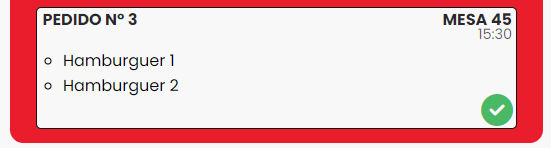
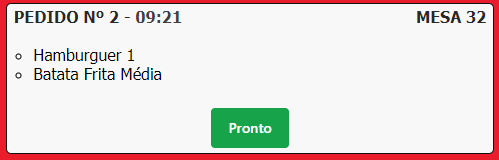
Atualização 21/02/2023
Mudanças na apresentação do projeto em django Comanda-Online

diff --git a/django-comanda-online.html b/django-comanda-online.html
@@ -18,45 +18,63 @@
 
     <!--BLOCO CORPO-->
     <img class="logo-projeto" src="images/django-comanda-online-logo.png" alt="comanda-online logo">
-    <h3 class="titulo_projeto">Comanda Online</h3>
+    <h3 class="titulo_projeto">Comanda Online v1.1</h3>
     <hr>
     <h4>DESCRIÇÃO</h4>
-    <p class="descricao">Este é meu primeiro projeto em Django e a meu objetivo com esse projeto foi realizado um CRUD completo e poder ver funcionar de forma dinâmica a integração do front-end com o banco de dados.</p>
+    <p class="descricao">Este é meu primeiro projeto em Django e meu objetivo com esse projeto foi realizar um CRUD completo e poder vê-lo funcionando dinamicamente integrando o front-end com o banco de dados.</p>
 
     <details>
-        <summary>Imagem da Página do Projeto</summary>
+        <summary>Imagem da Página Inicial do Projeto</summary>
         <img src="images/django/comanda-online/004.png" alt="exemplo 4">
     </details>
 
-    <p class="descricao">O projeto consiste em uma comanda online, como o próprio nome sugere, onde os garçons poderiam, utilizando um tablet, registrar os pedidos dos clientes e, uma vez criada a comanda, ela poderia ser visualizada pela equipe da cozinha do restaurante. A equipe receberia a comanda contendo os pedidos, a quantidade e o horário em que os pedidos foram registrados. Os pedidos estão organizados por ordem cronológica, do mais antigo pro mais novo, para que possa haver uma hierarquia de prioridade baseada no tempo. Uma vez que o pedido estivesse pronto para ser entregue, a cozinha liberava e poderia através da aplicação confirmar que o pedido está pronto, apertando no botão verde no canto inferior direito do pedido.
-    </p>
-
-    <img src="images/django/comanda-online/001.png" alt="exemplo 1">
-
-    <p class="descricao">Para que os pedidos fossem apresentados no front-end foi utilizado um for loop na página HTML que resgata os registros no banco de dados e apresenta-os, independente de quantos haverem. Segue abaixo uma imagem demonstrando como ficou o código.</p>
+    <p class="descricao">O projeto consiste em uma comanda online, como o próprio nome sugere, onde os garçons poderiam, utilizando um tablet, registrar os pedidos dos clientes e, uma vez criada a comanda, ela poderia ser visualizada pela equipe da cozinha do restaurante. A equipe receberia a comanda contendo os pedidos, a quantidade e o horário em que os pedidos foram registrados. Os pedidos estão organizados por ordem cronológica, do mais antigo para o mais novo, para que possa haver uma hierarquia de prioridade baseada no tempo. Uma vez que o pedido estivesse pronto para ser entregue, a cozinha liberava e poderia através da aplicação confirmar que o pedido está pronto, apertando no botão verde na parte inferior do pedido.</p>
 
     <details>
-        <summary>Clique Aqui</summary>
+        <summary>Imagem do Pedido</summary>
+        <img src="images/django/comanda-online/001.png" alt="exemplo 1">
+    </details>
+    
+
+    <p class="descricao">Para que os pedidos fossem apresentados no front-end foi utilizado um for loop na página HTML que resgata os registros no banco de dados e apresenta-os, independente de quantos houverem. Segue abaixo uma imagem demonstrando como ficou o código.</p>
+
+    <details>
+        <summary>Imagem do HTML</summary>
         <img src="images/django/comanda-online/002.png" width="100%" alt="exemplo 2">
     </details>
 
-    <p class="descricao">Por fim a tabela no banco de dados (Models do Django) foi criado pensando que ao menos um produto deve ser inserido (caso contrário, não faria sentido criar um registro novo) e também sendo obrigatório o registro do número da mesa onde o pedido foi solicitado, para que ele possa ser endereçado corretamente quando o pedido estiver pronto. Segue abaixo uma imagem demonstrando como ficou o Models.</p>
+    <p class="descricao">Foi criada uma página adicional que é acessada clicando em "Novo Pedido" que leva o usuário ao formulário de adição do novo pedido. A tabela no banco de dados (Models do Django) foi criado pensando que ao menos um produto deve ser inserido (caso contrário, não faria sentido criar um registro novo) e também sendo obrigatório o registro do número da mesa onde o pedido foi solicitado, para que ele possa ser endereçado corretamente quando o pedido estiver pronto. Segue abaixo uma imagem demonstrando como ficou o Models e logo abaixo outra imagem demonstrando o front-end visualizado pelo usuário.</p>
 
     <details>
-        <summary>Clique Aqui</summary>
+        <summary>Models no Django</summary>
         <img src="images/django/comanda-online/003.png" width="100%" alt="exemplo 3">
+    </details>
+    <br>
+    <details>
+        <summary>Formulário de Novo Pedido</summary>
+        <img src="images/django/comanda-online/005.png" width="100%" alt="exemplo 5">
     </details>
     <br>
     <details>
         <summary>Detalhes Técnicos</summary>
         <p>Python 3.10 <br> Django 4.1.6 <br>Visual Studio Code 1.75.0</p>
     </details>
-    
     <br>
+    <h4>NOTAS DE ATUALIZAÇÃO</h4>
+    <br>
+    <details>
+        <summary>Versão 1.1</summary>
+        <ul class="version-ul">
+            <li>Alterada a fonte de todo o projeto</li>
+            <li>O botão de "pronto" no pedido foi refeito</li>
+            <li>Os botões em "Novo Pedido" foram todos refeitos</li>
+            <li>Alterado o lugar onde a informação de tempo é apresentada, tornando a visualização mais fácil</li>
+        </ul>
+    </details>
     <hr>
-
     <div class="release">
         <p>Data de Publicação: 07/02/2023</p>
+        <p>Última Atualização: 21/02/2023</p>
     </div>
     <br>
     

diff --git a/style.css b/style.css
@@ -160,6 +160,10 @@ div.release p {
     text-align: center;
 }
 
+.version-ul {
+    text-align: left;
+}
+
 /* OUTRAS CONFIGURAÇÕES */
 
 summary {
